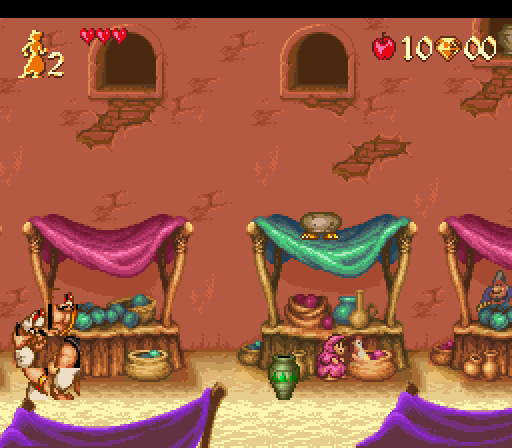
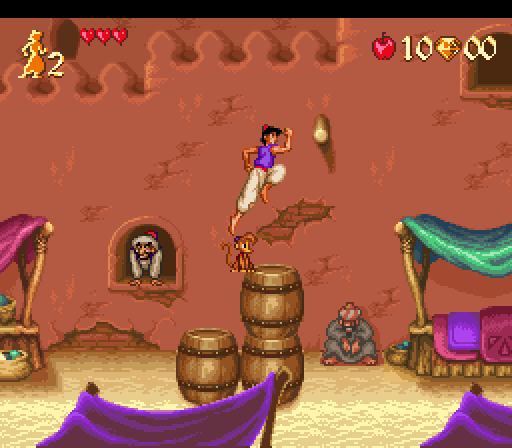
Native player: his starts set his picture list (Actor.own_pictures), so he is drawn; README picture and note to match

diff --git a/native/aladdin/src/data/player_tables.c b/native/aladdin/src/data/player_tables.c
@@ -92,3 +92,8 @@ uint8_t carpet_direction(uint8_t pad_low4) { return at8((uint16_t)(0xC7AA + (pad
 uint8_t carpet_rate_x(int alt, uint8_t direction) { return at8((uint16_t)((alt ? 0xC7CB : 0xC7B5) + (uint8_t)(direction << 1))); }
 uint8_t carpet_rate_y(int alt, uint8_t direction) { return at8((uint16_t)((alt ? 0xC7CC : 0xC7B6) + (uint8_t)(direction << 1))); }
 uint8_t carpet_tilt(uint8_t direction) { return at8((uint16_t)(0xC7E1 + direction)); }
+
+/* $80:8907 and $80:8917: the picture lists his starts give his record
+   (the original's word at +$29, read with the data bank at $80) */
+DataRef player_pictures(void) { DataRef r = { cart_offset(0x80, 0x8907) }; return r; }
+DataRef player_carpet_pictures(void) { DataRef r = { cart_offset(0x80, 0x8917) }; return r; }

diff --git a/native/aladdin/src/player/carpet.c b/native/aladdin/src/player/carpet.c
@@ -11,6 +11,7 @@
  * right, clockwise to 7 (2 down, 4 left, 6 up); 8 slow down across, 9
  * speed up, 10 neither; negative none.
  */
+#include "data/player_tables.h"
 #include "player/player_own.h"
 #include "system/task.h"
 
@@ -243,8 +244,7 @@ static int carpet_start(Actor *a)
         return PlayerGoTo(a, PLAYER_AT_ENDING_RIDE);
     a->flags = 0xD0;
     a->own.bytes[OWN_0A] = 0x40;
-    a->own.bytes[OWN_29] = 0x17;        /* his picture list's word, $8917 */
-    a->own.bytes[OWN_2A] = 0x89;
+    a->own_pictures = player_carpet_pictures(); /* his picture list (+$29) */
     CLIMBING(a) = 0;
     TILTED(a) = 0;
     a->redraw = 0xFF;

diff --git a/native/aladdin/src/player/player_starts.c b/native/aladdin/src/player/player_starts.c
@@ -4,6 +4,7 @@
  * level's own start (a walk in, then the level's tasks) or one of the
  * scenes that place him.
  */
+#include "data/player_tables.h"
 #include "player/player_own.h"
 #include "system/task.h"
 
@@ -55,8 +56,7 @@ static int level_start(Actor *a)
 
     a->flags = 0xD0;
     a->own.bytes[OWN_0A] = 0x40;
-    a->own.bytes[OWN_29] = 0x07;        /* his picture list's word, $8907 */
-    a->own.bytes[OWN_2A] = 0x89;
+    a->own_pictures = player_pictures();    /* his picture list (+$29) */
     a->redraw = 0xFF;
     g.player_flags &= 0x7F;
     if (g.level_restart)

diff --git a/native/aladdin/src/data/player_tables.h b/native/aladdin/src/data/player_tables.h
@@ -82,4 +82,10 @@ uint8_t carpet_rate_x(int alt, uint8_t direction);
 uint8_t carpet_rate_y(int alt, uint8_t direction);
 uint8_t carpet_tilt(uint8_t direction);
 
+/* his picture lists, as his record's +$29 gets them (Actor.own_pictures;
+   video/'s ActorPictureSend and ActorPictureQueue read them): his own, and
+   the carpet ride's */
+DataRef player_pictures(void);
+DataRef player_carpet_pictures(void);
+
 #endif

diff --git a/README.md b/README.md
@@ -132,7 +132,8 @@ and the project's clean check report nothing in them.
 
 What runs, on Linux, from power-on with no input: the copyright card, the
 logo, the opening story with its scenes and text, the title with its menu and
-music, and the attract demo, which loads level 1 and plays it.
+music, and the attract demo, which loads level 1 and plays it: Aladdin runs
+and jumps through the market with Abu, past the stall keepers and the guards.
 
 | | |
 |---|---|
@@ -144,9 +145,6 @@ repository's build (`--shots`) at the console's size and doubled.
 
 ### Not done
 
-- **Aladdin is not drawn in the level yet.** His state moves and the camera
-  follows him, but his start does not set his picture list, so his pictures
-  are not sent. The cause is known and the fix is in hand.
 - **Nothing past the attract demo is playable.** Starting a game from the
   menu, the password, options, continue and Genie screens, the scenes
   between levels and the ending are not converted.
